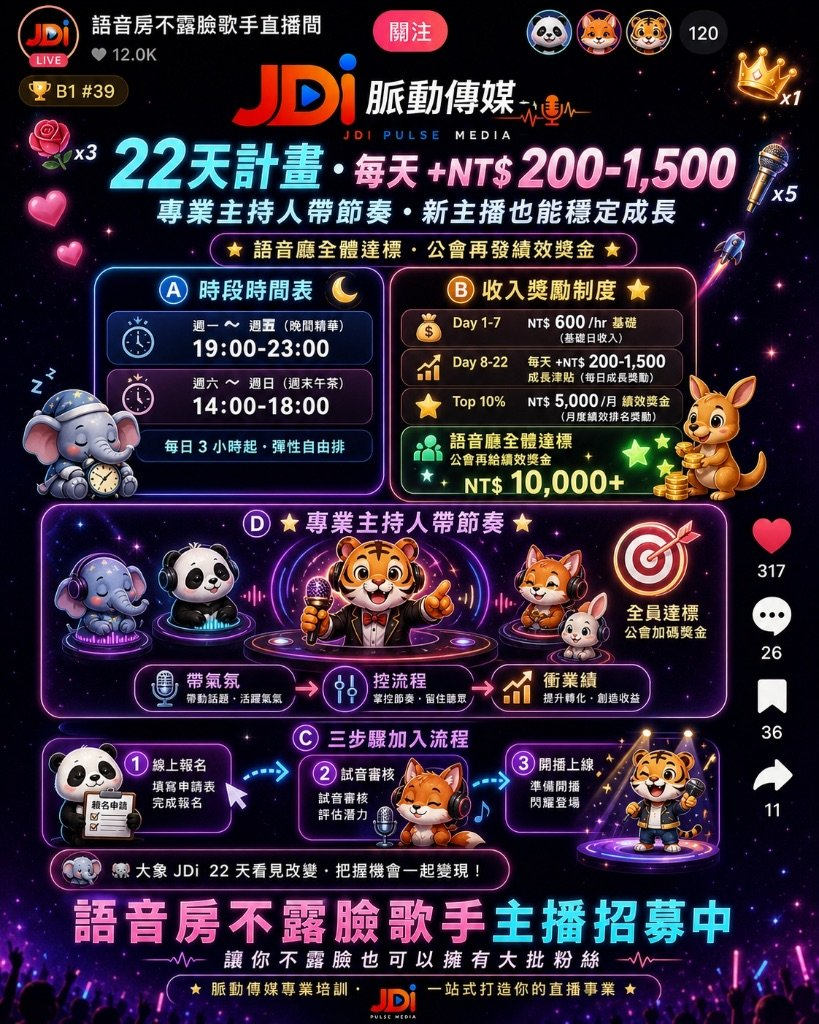
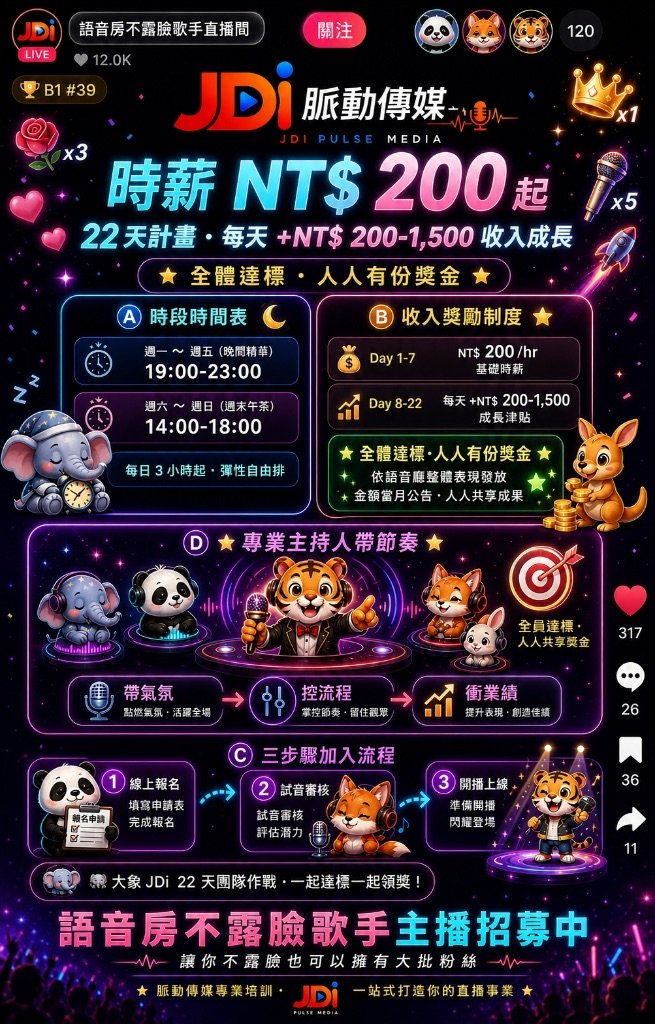
fix(live-center): 語音主播招募文重新定調收入結構（禮物抽成主軸 + 3 層審核制加碼）
依運營團隊確認的正確定義修正：
- 主要收入實際來自「粉絲禮物抽成」（原文誤寫成公會保底時薪）
- NT$ 200/hr 為公會審核制保底獎金，非固定工資
- 每天 +NT$ 200~1,500 成長津貼同為審核制
- 個人 Top 10% 績效已刪除，改為「全員達標人人共享」團隊機制
- 全員達標獎金金額依整廳表現浮動，當月公告（非固定 10,000+）

修改內容：
- 替換 hero 圖為新版海報（時薪 NT$ 200 起 · 22 天團隊作戰）
- 標題改為「22 天團隊作戰，一起達標一起領獎」
- 副標新增禮物抽成主軸說明
- 一句話總結完整重寫
- H2「收入結構」改為「主軸是禮物抽成，公會三層加碼獎金補強」
- 4 張收入卡改為：主要收入=禮物抽成 / Day 1-7 保底 NT$ 200/hr / Day 8-22 成長 / 全員達標=共享獎金
- 新增「審核制是什麼意思」callout 說明機制
- 3 情境試算表重新計算（原本 Top 10% 5萬+ 因基礎時薪錯誤而失真）：
  - 保守 NT$ 7,200（僅公會加碼）
  - 穩定 NT$ 16,200
  - 積極 NT$ 26,700
  - 加註「不含禮物抽成，實際總收入 = 抽成 + 加碼 + 共享」
- 修正 FAQ Q2（22 天沒到不會扣禮物抽成）+ Q3（全員達標金額浮動）
- 修正硬體段落「Top 10% 主播回本」→「粉絲抽成穩定回本」
- 主軸 CTA 標語改「22 天團隊作戰，一起達標一起領獎」
- 更新 og:title / og:description / meta description / JSON-LD headline
- 更新 policy hub 新文標題 + 主 hub Featured 卡標題與 excerpt
- Cache-bust：v=20260901m → 20260901n（26 個 HTML 檔）

驗證：桌機 + 手機 390px 雙視角全部通過，4 張收入卡均勻 358px，內容全部對齊。

diff --git a/live-center/article/voice-only-streamer-recruitment/index.html b/live-center/article/voice-only-streamer-recruitment/index.html
@@ -3,14 +3,14 @@
 <head>
 <meta charset="UTF-8" />
 <meta name="viewport" content="width=device-width, initial-scale=1.0" />
-<title>不露臉語音主播培訓計畫招募中｜22 天 3 小時彈性上線 · JDI 脈動傳媒</title>
-<meta name="description" content="JDI 脈動傳媒推出 22 天不露臉語音主播培訓計畫 —— 每天 3 小時彈性上線，Day 1-7 保底 NT$ 600/hr，Day 8-22 成長津貼每天 +200-1500，Top 10% 加碼 5000 元，全員達標再發 10000+ 績效獎金。專業主持人陪跑，新人也能穩定成長。" />
+<title>不露臉語音主播培訓計畫招募中｜22 天團隊作戰 · JDI 脈動傳媒</title>
+<meta name="description" content="JDI 脈動傳媒推出 22 天不露臉語音主播培訓計畫 —— 主要收入來自粉絲禮物抽成，公會提供三層審核制加碼：時薪 NT$ 200/hr 保底、每天 +200~1500 成長津貼、全員達標人人共享獎金。專業主持人陪跑，新人也能穩定成長。" />
 <meta name="robots" content="index, follow" />
 <meta name="theme-color" content="#E8392A" />
 <link rel="canonical" href="https://jdi-pulse.com/live-center/article/voice-only-streamer-recruitment/" />
 <meta property="og:type" content="article" />
-<meta property="og:title" content="不露臉語音主播培訓計畫招募中｜22 天 3 小時彈性上線" />
-<meta property="og:description" content="每天 +NT$ 200-1500 成長津貼，Top 10% 加碼 5000 元，全員達標再發 10000+。專業主持人陪跑，新手無痛開播。" />
+<meta property="og:title" content="不露臉語音主播培訓計畫招募中｜22 天團隊作戰" />
+<meta property="og:description" content="粉絲禮物抽成為主 + 公會三層審核制加碼：NT$ 200/hr 保底時薪、每天 +200~1500 成長津貼、全員達標人人共享。專業主持人陪跑，新手無痛開播。" />
 <meta property="og:url" content="https://jdi-pulse.com/live-center/article/voice-only-streamer-recruitment/" />
 <meta property="og:image" content="https://jdi-pulse.com/assets/live-center/voice-recruit-hero.jpg" />
 <meta property="article:published_time" content="2026-09-05" />
@@ -20,7 +20,7 @@
 <link rel="preconnect" href="https://fonts.googleapis.com" />
 <link rel="preconnect" href="https://fonts.gstatic.com" crossorigin />
 <link href="https://fonts.googleapis.com/css2?family=Noto+Sans+TC:wght@400;500;600;700;800;900&display=swap" rel="stylesheet" />
-<link rel="stylesheet" href="/css/style.css?v=20260901m" />
+<link rel="stylesheet" href="/css/style.css?v=20260901n" />
 <link rel="stylesheet" href="/css/live-center.css?v=20260902a" />
 <style>
   body { font-family: 'Noto Sans TC', -apple-system, sans-serif; margin: 0; }
@@ -60,7 +60,7 @@
 {
   "@context": "https://schema.org",
   "@type": "Article",
-  "headline": "不露臉語音主播培訓計畫招募中｜22 天 3 小時彈性上線",
+  "headline": "不露臉語音主播培訓計畫招募中｜22 天團隊作戰",
   "datePublished": "2026-09-05",
   "dateModified": "2026-09-05",
   "publisher": {
@@ -152,18 +152,18 @@
         <span class="lc-tag lc-tag--policy">📢 活動政策</span>
         <span class="lc-article-date">2026-09-05</span>
       </div>
-      <h1 class="lc-article-title">不露臉語音主播培訓計畫招募中｜22 天 3 小時彈性上線，每天 +NT$ 200–1,500</h1>
-      <p class="lc-article-subtitle">聲音經濟全面崛起。你不必成為百萬網紅，也不需要承擔面對鏡頭的容貌焦慮 —— JDI 脈動傳媒推出 <strong>22 天不露臉語音主播培訓計畫</strong>，專業主持人帶節奏、公會運營全程陪跑，新人也能穩定成長。</p>
+      <h1 class="lc-article-title">不露臉語音主播培訓計畫招募中｜22 天團隊作戰，一起達標一起領獎</h1>
+      <p class="lc-article-subtitle">聲音經濟全面崛起。你不必成為百萬網紅，也不需要承擔面對鏡頭的容貌焦慮 —— JDI 脈動傳媒推出 <strong>22 天不露臉語音主播培訓計畫</strong>，主要收入來自粉絲禮物抽成，公會另外提供<strong>三層審核制加碼獎金</strong>（時薪保底、成長津貼、全員達標共享），專業主持人帶節奏、運營全程陪跑，新人也能穩定成長。</p>
       <a href="/assets/live-center/voice-recruit-hero.jpg" class="vr-hero-poster" target="_blank" rel="noopener">
         <img src="/assets/live-center/voice-recruit-hero.jpg" alt="JDI 脈動傳媒不露臉語音主播 22 天培訓計畫招募主視覺" loading="eager" width="819" height="1024" />
       </a>
-      <span class="lc-article-cover-caption">22 天計畫 · 每天 +NT$ 200–1,500 · 語音房不露臉主播招募中</span>
+      <span class="lc-article-cover-caption">時薪 NT$ 200 起（審核制）· 22 天團隊作戰 · 一起達標一起領獎</span>
     </header>
 
     <div class="lc-article-body">
       <div class="vr-highlight">
         <h3>🎯 一句話總結</h3>
-        <p style="margin:0;">每個月 22 天、每天 3 小時精華時段、Day 1–7 基礎 NT$ 600/hr、Day 8–22 成長津貼每天 +NT$ 200–1,500、Top 10% 加碼 NT$ 5,000/月、全員達標公會再發 NT$ 10,000+。<strong>用聲音為自己創造第二收入。</strong></p>
+        <p style="margin:0;">主要收入來自<strong>粉絲禮物抽成</strong>（業界最優分潤，詳情面談）；此外公會提供<strong>三層審核制加碼獎金</strong> —— Day 1–7 保底時薪 <strong>NT$ 200/hr</strong>、Day 8–22 成長津貼每天 <strong>+NT$ 200~1,500</strong>、全員達標<strong>依整廳表現發放共享獎金</strong>。用聲音為自己創造穩定收入。</p>
       </div>
 
       <h2>為什麼 2026 年是「聲音經濟」的關鍵年？</h2>
@@ -192,70 +192,78 @@
       </div>
       <span class="lc-article-cover-caption">你不需要露臉，也能擁有大批粉絲 —— 只要聲音對、企劃對、平台對</span>
 
-      <h2>收入結構｜四層加碼機制</h2>
+      <h2>收入結構｜主軸是「禮物抽成」，公會三層加碼獎金補強</h2>
 
-      <p>與傳統直播平台的「純抽成」模式不同，本計畫採用<strong>四層加碼機制</strong>，讓穩定出勤的主播能領到穩定收入，讓表現優秀的主播能領到超額回報：</p>
+      <p>先講最重要的觀念 —— <strong>你的主要收入來自粉絲禮物抽成</strong>，這跟一般直播主一樣。粉絲透過應援棒、泰迪熊、火箭、流星雨等虛擬禮物支持你，這些會依業界最優分潤比例（詳情面談）成為你的實質收入。</p>
+
+      <p>在這個主軸之上，JDI 脈動傳媒額外提供<strong>三層審核制加碼獎金</strong>，讓認真出勤的主播即使新手期粉絲少，也不會空手：</p>
 
       <div class="vr-income-grid">
         <div class="vr-income-card">
-          <div class="vr-income-label">🛡 Day 1–7 基礎</div>
-          <div class="vr-income-value">NT$ 600/hr</div>
-          <div class="vr-income-note">基礎日收入（穩定保底）</div>
+          <div class="vr-income-label">💝 主要收入</div>
+          <div class="vr-income-value">禮物抽成</div>
+          <div class="vr-income-note">業界最優分潤（面談詳談）</div>
+        </div>
+        <div class="vr-income-card">
+          <div class="vr-income-label">🛡 Day 1–7 保底</div>
+          <div class="vr-income-value">NT$ 200/hr</div>
+          <div class="vr-income-note">審核制保底時薪</div>
         </div>
         <div class="vr-income-card">
           <div class="vr-income-label">📈 Day 8–22 成長</div>
-          <div class="vr-income-value">+ NT$ 200–1,500</div>
-          <div class="vr-income-note">每日成長津貼（依表現）</div>
-        </div>
-        <div class="vr-income-card">
-          <div class="vr-income-label">⭐ Top 10% 績效</div>
-          <div class="vr-income-value">NT$ 5,000/月</div>
-          <div class="vr-income-note">月度績效排名獎勵</div>
+          <div class="vr-income-value">+ NT$ 200~1,500</div>
+          <div class="vr-income-note">每日成長津貼（審核制）</div>
         </div>
         <div class="vr-income-card">
           <div class="vr-income-label">🎁 全員達標</div>
-          <div class="vr-income-value">NT$ 10,000+</div>
-          <div class="vr-income-note">語音廳全體達標公會加碼</div>
+          <div class="vr-income-value">共享獎金</div>
+          <div class="vr-income-note">依整廳表現 · 當月公告</div>
         </div>
       </div>
 
-      <h3>💡 新手實際收入試算（保守版）</h3>
+      <div class="lc-callout">
+        <strong>🔍 「審核制」是什麼意思？</strong>公會加碼獎金不是「出勤打卡就領」，而是需要達成基本的<strong>出勤時數、直播互動品質、遵守公會規範</strong>等條件，由運營團隊定期審核後發放。這個機制保護的是<strong>認真經營的主播</strong>—— 不會有掛麥、應付了事的人稀釋整廳的獎金池。
+      </div>
+
+      <h3>💡 三層公會加碼獎金試算（不含禮物抽成）</h3>
+
+      <p>以下試算<strong>只計算公會加碼獎金</strong>，不含粉絲禮物抽成 —— 抽成收入依你的粉絲經營成效浮動，可能從幾千元到數十萬元不等。這張表想讓你看清楚：<strong>就算粉絲還沒累積，公會加碼機制也讓你有基本的努力回報</strong>。</p>
 
       <div class="vr-table-wrap">
         <table>
           <thead>
             <tr style="background: rgba(37,244,238,0.15);">
-              <th style="padding: 12px; text-align: left; border-bottom: 2px solid var(--lc-policy); color: var(--lc-policy); font-weight: 700;">情境</th>
-              <th style="padding: 12px; text-align: right; border-bottom: 2px solid var(--lc-policy); color: var(--lc-policy); font-weight: 700;">基礎（7 天）</th>
-              <th style="padding: 12px; text-align: right; border-bottom: 2px solid var(--lc-policy); color: var(--lc-policy); font-weight: 700;">成長（15 天）</th>
-              <th style="padding: 12px; text-align: right; border-bottom: 2px solid var(--lc-policy); color: var(--lc-policy); font-weight: 700;">月收合計</th>
+              <th style="padding: 12px; text-align: left; border-bottom: 2px solid var(--lc-policy); color: var(--lc-policy); font-weight: 700;">情境（審核通過）</th>
+              <th style="padding: 12px; text-align: right; border-bottom: 2px solid var(--lc-policy); color: var(--lc-policy); font-weight: 700;">Day 1–7 保底</th>
+              <th style="padding: 12px; text-align: right; border-bottom: 2px solid var(--lc-policy); color: var(--lc-policy); font-weight: 700;">Day 8–22 成長</th>
+              <th style="padding: 12px; text-align: right; border-bottom: 2px solid var(--lc-policy); color: var(--lc-policy); font-weight: 700;">加碼小計</th>
             </tr>
           </thead>
           <tbody>
             <tr>
-              <td style="padding: 12px; border-bottom: 1px solid rgba(255,255,255,0.08);"><strong>保守估算</strong><br><span style="opacity:.7; font-size:13px;">3 hr/天 × 成長 +200/天</span></td>
-              <td style="padding: 12px; text-align: right; border-bottom: 1px solid rgba(255,255,255,0.08);">NT$ 12,600</td>
-              <td style="padding: 12px; text-align: right; border-bottom: 1px solid rgba(255,255,255,0.08);">NT$ 3,000</td>
-              <td style="padding: 12px; text-align: right; border-bottom: 1px solid rgba(255,255,255,0.08); color: var(--lc-policy); font-weight: 700;">NT$ 15,600</td>
+              <td style="padding: 12px; border-bottom: 1px solid rgba(255,255,255,0.08);"><strong>保守情境</strong><br><span style="opacity:.7; font-size:13px;">3 hr/天 × 成長 +200/天</span></td>
+              <td style="padding: 12px; text-align: right; border-bottom: 1px solid rgba(255,255,255,0.08);">NT$ 4,200<br><span style="opacity:.6; font-size:12px;">(200×3×7)</span></td>
+              <td style="padding: 12px; text-align: right; border-bottom: 1px solid rgba(255,255,255,0.08);">NT$ 3,000<br><span style="opacity:.6; font-size:12px;">(200×15)</span></td>
+              <td style="padding: 12px; text-align: right; border-bottom: 1px solid rgba(255,255,255,0.08); color: var(--lc-policy); font-weight: 700;">NT$ 7,200</td>
             </tr>
             <tr>
               <td style="padding: 12px; border-bottom: 1px solid rgba(255,255,255,0.08);"><strong>穩定表現</strong><br><span style="opacity:.7; font-size:13px;">3 hr/天 × 成長 +800/天</span></td>
-              <td style="padding: 12px; text-align: right; border-bottom: 1px solid rgba(255,255,255,0.08);">NT$ 12,600</td>
-              <td style="padding: 12px; text-align: right; border-bottom: 1px solid rgba(255,255,255,0.08);">NT$ 12,000</td>
-              <td style="padding: 12px; text-align: right; border-bottom: 1px solid rgba(255,255,255,0.08); color: var(--lc-policy); font-weight: 700;">NT$ 24,600</td>
+              <td style="padding: 12px; text-align: right; border-bottom: 1px solid rgba(255,255,255,0.08);">NT$ 4,200</td>
+              <td style="padding: 12px; text-align: right; border-bottom: 1px solid rgba(255,255,255,0.08);">NT$ 12,000<br><span style="opacity:.6; font-size:12px;">(800×15)</span></td>
+              <td style="padding: 12px; text-align: right; border-bottom: 1px solid rgba(255,255,255,0.08); color: var(--lc-policy); font-weight: 700;">NT$ 16,200</td>
             </tr>
             <tr>
-              <td style="padding: 12px;"><strong>Top 10% 主播</strong><br><span style="opacity:.7; font-size:13px;">3 hr/天 × 成長 +1500/天 + 績效 5,000 + 加碼 10,000</span></td>
-              <td style="padding: 12px; text-align: right;">NT$ 12,600</td>
-              <td style="padding: 12px; text-align: right;">NT$ 22,500</td>
-              <td style="padding: 12px; text-align: right; color: var(--lc-policy); font-weight: 700;">NT$ 50,100+</td>
+              <td style="padding: 12px;"><strong>積極衝刺</strong><br><span style="opacity:.7; font-size:13px;">3 hr/天 × 成長 +1,500/天</span></td>
+              <td style="padding: 12px; text-align: right;">NT$ 4,200</td>
+              <td style="padding: 12px; text-align: right;">NT$ 22,500<br><span style="opacity:.6; font-size:12px;">(1500×15)</span></td>
+              <td style="padding: 12px; text-align: right; color: var(--lc-policy); font-weight: 700;">NT$ 26,700</td>
             </tr>
           </tbody>
         </table>
       </div>
 
       <div class="lc-callout">
-        <strong>📊 試算說明：</strong>以上為公會運營團隊依過往新人數據整理的參考區間，不代表個人保證收入。實際收入依<strong>出勤穩定度、聲音表現、粉絲互動、指定禮物累積</strong>等多重因素決定 —— 我們的角色是<strong>提高你落在中高區間的機率</strong>。
+        <strong>📊 試算說明：</strong>以上<strong>僅為公會加碼獎金的參考區間</strong>，且皆需通過運營審核，不代表個人保證收入。<strong>你的實際總月收 = 粉絲禮物抽成（主要）＋ 公會加碼獎金（審核通過）＋ 全員達標共享獎金（依整廳表現）</strong>。禮物抽成部分依你的粉絲經營成效浮動，從幾千到數十萬元皆有可能 —— 我們的角色是<strong>用系統性培訓 + 專業主持人 + 房型企劃</strong>，讓你的粉絲累積速度比單打獨鬥快 3–5 倍。
       </div>
 
       <h2>時段安排｜每月 22 天、每天 3 小時精華時段</h2>
@@ -281,7 +289,7 @@
       </ol>
 
       <div class="lc-callout">
-        <strong>🎁 全員達標，公會加碼：</strong>語音廳全體達標時，公會會額外發放績效獎金 NT$ 10,000+ —— 這是「同房夥伴一起變好」的雙贏機制，不是零和競爭。
+        <strong>🎁 全員達標，人人有份獎金：</strong>語音廳整體達標時，公會會額外發放<strong>共享獎金池</strong>，依整廳表現決定金額，當月公告、人人共享成果 —— 這是「同房夥伴一起變好」的雙贏機制，不是零和競爭，也是我們刪除「個人 Top 10%」績效的原因：我們要打的是<strong>團隊作戰，不是內部競賽</strong>。
       </div>
 
       <h2>3 步驟加入流程</h2>
@@ -321,7 +329,7 @@
         <li><strong>監聽耳機：</strong>入門款約 NT$ 800–1,800，避免直播時聽不清自己聲音</li>
       </ul>
 
-      <p>整套下來約 <strong>NT$ 5,000–10,000 就能起步</strong>，Top 10% 主播第一個月就能回本。若無相關經驗，<strong>公會運營團隊可提供設備挑選建議</strong>，避免踩雷買到不合適的品牌。</p>
+      <p>整套下來約 <strong>NT$ 5,000–10,000 就能起步</strong>，若你的粉絲禮物抽成穩定，第 1–2 個月就能回本。若無相關經驗，<strong>公會運營團隊可提供設備挑選建議</strong>，避免踩雷買到不合適的品牌。</p>
 
       <h2>5 題新人最常問的問題</h2>
 
@@ -329,10 +337,10 @@
       <p>可以。我們每個月都會收到大量新人報名，其中<strong>約 60% 是完全零經驗</strong>。試音時我們看的不是「你現在多好」，而是「你的聲音是否具備某個獨特記憶點」—— 有些人是溫柔療癒系、有些人是活潑逗趣型、有些人是知性穩重派，每種特質都能找到對應的粉絲群。</p>
 
       <h3>Q2：22 天沒到會不會被扣錢？</h3>
-      <p>不會被「扣錢」，但會影響你的收入結構。Day 1–7 的基礎 NT$ 600/hr 是按實際上麥時數計算，Day 8–22 的成長津貼則需要滿足<strong>當月累積出勤天數</strong>才能領取。所以我們建議至少要達 22 天門檻，讓完整的四層加碼機制生效。</p>
+      <p>不會被「扣錢」，但會影響你能領到的公會加碼獎金。Day 1–7 的保底時薪 NT$ 200/hr 是按實際上麥時數並經運營審核後發放，Day 8–22 的成長津貼則需要滿足<strong>當月累積出勤天數與品質標準</strong>才能通過審核。所以我們建議至少要達 22 天門檻，讓完整的三層加碼機制生效。<strong>粉絲禮物抽成本身不受出勤天數扣減</strong>—— 你有播、有收到禮物就有分潤。</p>
 
-      <h3>Q3：全員達標的 NT$ 10,000+ 是每人都能領嗎？</h3>
-      <p>是的，這是「<strong>同房共享獎金</strong>」機制 —— 當整個語音廳全體達標（所有排麥主播都完成月度目標）時，公會會額外撥發獎金池，<strong>由該廳所有主播平分或依貢獻度分配</strong>。這也是為什麼我們強調「夥伴一起變好」，因為你的努力會直接影響同房夥伴的收入。</p>
+      <h3>Q3：全員達標獎金金額多少？每人領多少？</h3>
+      <p>金額每月<strong>依整廳表現浮動</strong>，會由公會運營於當月結算後公告。分配原則是「<strong>人人有份共享成果</strong>」—— 只要當月語音廳整體達到目標，該廳所有通過審核的主播都能領到一份。這也是為什麼我們強調「夥伴一起變好」，因為<strong>你的努力會直接影響同房夥伴的收入</strong>，反之亦然。這個機制的目的是讓廳內大家<strong>互相帶動而非內部競爭</strong>。</p>
 
       <h3>Q4：不露臉真的能吸粉嗎？會不會很難經營？</h3>
       <p>會，但比你想像的容易。TikTok、抖音、Podcast 過去 3 年最大的趨勢就是「聲音經濟」—— 因為觀眾對「陪伴感」的需求遠大於「觀賞感」。當你有專業主持人配合、有 IP 化的房型設計、有公會流量導入，經營難度會下降到你能專注在「怎麼把每一場說得更好」這件事上。</p>
@@ -350,8 +358,8 @@
     </div>
 
     <div class="lc-article-cta">
-      <h3 class="lc-article-cta-title">立即報名 · 22 天用聲音改變生活</h3>
-      <p class="lc-article-cta-desc">私訊我們 / 填寫報名表單，了解詳細分潤機制與面談資訊 —— 大象 JDI 22 天看見改變，把握機會一起變現！</p>
+      <h3 class="lc-article-cta-title">立即報名 · 22 天團隊作戰，一起達標一起領獎</h3>
+      <p class="lc-article-cta-desc">私訊我們 / 填寫報名表單，了解詳細禮物抽成分潤比例、審核制加碼細則與面談資訊 —— 大象 JDi 22 天團隊作戰，一起達標一起領獎！</p>
       <div class="lc-article-cta-buttons">
         <a href="https://line.me/R/ti/p/@354ykfbp" target="_blank" rel="noopener" class="lc-btn lc-btn-primary">💬 LINE 諮詢報名 →</a>
         <a href="/streamer-test/" class="lc-btn lc-btn-secondary">🎤 先做主播測驗</a>

diff --git a/live-center/index.html b/live-center/index.html
@@ -45,7 +45,7 @@
 <link rel="preconnect" href="https://fonts.googleapis.com" />
 <link rel="preconnect" href="https://fonts.gstatic.com" crossorigin />
 <link href="https://fonts.googleapis.com/css2?family=Noto+Sans+TC:wght@400;500;600;700;800;900&display=swap" rel="stylesheet" />
-<link rel="stylesheet" href="/css/style.css?v=20260901m" />
+<link rel="stylesheet" href="/css/style.css?v=20260901n" />
 <link rel="stylesheet" href="/css/live-center.css?v=20260902a" />
 <style>
   body { font-family: 'Noto Sans TC', -apple-system, BlinkMacSystemFont, sans-serif; margin: 0; }
@@ -159,8 +159,8 @@
           </div>
           <div class="lc-featured-body">
             <span class="lc-tag lc-tag--policy">📢 活動政策</span>
-            <h3 class="lc-featured-title">不露臉語音主播培訓計畫招募中｜22 天彈性上線</h3>
-            <p class="lc-featured-excerpt">每天 3 小時精華時段，Day 1-7 保底 NT$ 600/hr，Day 8-22 成長津貼每天 +200-1500，Top 10% 加碼 5000/月，全員達標公會再發 10000+。</p>
+            <h3 class="lc-featured-title">不露臉語音主播培訓計畫招募中｜22 天團隊作戰</h3>
+            <p class="lc-featured-excerpt">主要收入來自粉絲禮物抽成（業界最優分潤）；公會加碼三層審核制獎金：時薪 NT$ 200/hr 保底、每天 +200~1500 成長津貼、全員達標人人共享獎金。</p>
             <div class="lc-featured-meta">
               <span>2026-09-05</span>
             </div>
@@ -246,7 +246,7 @@
             <img src="/assets/live-center/voice-recruit-hero.jpg" alt="不露臉語音主播 22 天培訓計畫招募主視覺" loading="lazy" width="819" height="1024" />
           </div>
           <div class="lc-list-body">
-            <h3 class="lc-list-title">不露臉語音主播培訓計畫招募中｜22 天 3 小時彈性上線，每天 +NT$ 200–1,500</h3>
+            <h3 class="lc-list-title">不露臉語音主播培訓計畫招募中｜22 天團隊作戰，一起達標一起領獎</h3>
             <div class="lc-list-meta">
               <span class="lc-tag lc-tag--policy">📢 活動政策</span>
               <span>2026-09-05</span>
@@ -274,7 +274,7 @@
             <img src="/assets/live-center/mentor-program-hero.jpg" alt="師徒計畫招募海報｜本屆公會大使多多綠、芮娜、米姥思" loading="lazy" width="1024" height="576" />
           </div>
           <div class="lc-list-body">
-            <h3 class="lc-list-title">師徒計畫招募中｜學姐親帶你走向直播巔峰</h3>
+            <h3 class="lc-list-title">師徒計畫�  <h3 class="lc-list-title">師徒計畫招募中｜學姐親帶你走向直播巔峰</h3>
             <div class="lc-list-meta">
               <span class="lc-tag lc-tag--policy">📢 活動政策</span>
               <span>2026-09-02</span>

diff --git a/streamers/all/index.html b/streamers/all/index.html
@@ -19,7 +19,7 @@
   <meta property="og:title" content="全部主播 · 旗下 300+ 位主播｜JDI 脈動傳媒" />
   <meta property="og:description" content="JDI 脈動傳媒旗下 300+ 位 TikTokLive 優質主播完整陣容。脈動之星精選推薦、支援名稱／帳號快速搜尋。" />
   <meta property="og:url" content="https://jdi-pulse.com/streamers/all/" />
-  <meta property="og:image" content="https://jdi-pulse.com/assets/og_home.png?v=20260901m" />
+  <meta property="og:image" content="https://jdi-pulse.com/assets/og_home.png?v=20260901n" />
   <meta property="og:locale" content="zh_TW" />
 
   <!-- ========== TWITTER / X CARD ========== -->
@@ -67,8 +67,8 @@
   <link rel="preload" as="image" href="/assets/ad_01_recruit.png" fetchpriority="high" />
 
   <!-- ========== STYLES ========== -->
-  <link rel="stylesheet" href="/css/style.css?v=20260901m" />
-  <link rel="stylesheet" href="/css/site-chrome.css?v=20260901m" />
+  <link rel="stylesheet" href="/css/style.css?v=20260901n" />
+  <link rel="stylesheet" href="/css/site-chrome.css?v=20260901n" />
 
   <style>
     /* 全部主播頁專用微調 */
@@ -448,7 +448,7 @@
   </div>
 </footer>
 
-<script src="/js/main.js?v=20260901m"></script>
+<script src="/js/main.js?v=20260901n"></script>
 <script>
   // 顯示總數
   document.addEventListener('DOMContentLoaded', function() {

diff --git a/live-center/policy/index.html b/live-center/policy/index.html
@@ -18,7 +18,7 @@
 <link rel="preconnect" href="https://fonts.googleapis.com" />
 <link rel="preconnect" href="https://fonts.gstatic.com" crossorigin />
 <link href="https://fonts.googleapis.com/css2?family=Noto+Sans+TC:wght@400;500;600;700;800;900&display=swap" rel="stylesheet" />
-<link rel="stylesheet" href="/css/style.css?v=20260901m" />
+<link rel="stylesheet" href="/css/style.css?v=20260901n" />
 <link rel="stylesheet" href="/css/live-center.css?v=20260902a" />
 <style>body { font-family: 'Noto Sans TC', -apple-system, sans-serif; margin: 0; }</style>
   <link rel="stylesheet" href="/css/site-chrome.css?v=20260831a" />
@@ -116,7 +116,7 @@
           <img src="/assets/live-center/voice-recruit-hero.jpg" alt="不露臉語音主播 22 天培訓計畫招募主視覺" loading="lazy" width="819" height="1024" />
         </div>
         <div class="lc-list-body">
-          <h3 class="lc-list-title">不露臉語音主播培訓計畫招募中｜22 天 3 小時彈性上線，每天 +NT$ 200–1,500</h3>
+          <h3 class="lc-list-title">不露臉語音主播培訓計畫招募中｜22 天團隊作戰，一起達標一起領獎</h3>
           <div class="lc-list-meta">
             <span class="lc-tag lc-tag--policy">📢 活動政策</span>
             <span>2026-09-05</span>

diff --git a/index.html b/index.html
@@ -257,7 +257,7 @@
   <link rel="preconnect" href="https://fonts.googleapis.com" />
   <link rel="preconnect" href="https://fonts.gstatic.com" crossorigin />
   <link href="https://fonts.googleapis.com/css2?family=Noto+Sans+TC:wght@300;400;500;700;900&family=Inter:wght@300;400;500;600;700;800;900&display=swap" rel="stylesheet" />
-  <link rel="stylesheet" href="css/style.css?v=20260901m" />
+  <link rel="stylesheet" href="css/style.css?v=20260901n" />
   <link rel="stylesheet" href="css/streamer-test.css?v=20260820a" />
   <link rel="stylesheet" href="/css/site-chrome.css?v=20260831a" />
 </head>
@@ -1238,6 +1238,6 @@
     })();
   </script>
 
-  <script src="js/main.js?v=20260901m"></script>
+  <script src="js/main.js?v=20260901n"></script>
 </body>
 </html>

diff --git a/live-center/creator/index.html b/live-center/creator/index.html
@@ -18,7 +18,7 @@
 <link rel="preconnect" href="https://fonts.googleapis.com" />
 <link rel="preconnect" href="https://fonts.gstatic.com" crossorigin />
 <link href="https://fonts.googleapis.com/css2?family=Noto+Sans+TC:wght@400;500;600;700;800;900&display=swap" rel="stylesheet" />
-<link rel="stylesheet" href="/css/style.css?v=20260901m" />
+<link rel="stylesheet" href="/css/style.css?v=20260901n" />
 <link rel="stylesheet" href="/css/live-center.css?v=20260902a" />
 <style>body { font-family: 'Noto Sans TC', -apple-system, sans-serif; margin: 0; }</style>
   <link rel="stylesheet" href="/css/site-chrome.css?v=20260831a" />

diff --git a/live-center/glory/index.html b/live-center/glory/index.html
@@ -18,7 +18,7 @@
 <link rel="preconnect" href="https://fonts.googleapis.com" />
 <link rel="preconnect" href="https://fonts.gstatic.com" crossorigin />
 <link href="https://fonts.googleapis.com/css2?family=Noto+Sans+TC:wght@400;500;600;700;800;900&display=swap" rel="stylesheet" />
-<link rel="stylesheet" href="/css/style.css?v=20260901m" />
+<link rel="stylesheet" href="/css/style.css?v=20260901n" />
 <link rel="stylesheet" href="/css/live-center.css?v=20260902a" />
 <style>body { font-family: 'Noto Sans TC', -apple-system, sans-serif; margin: 0; }</style>
   <link rel="stylesheet" href="/css/site-chrome.css?v=20260831a" />

diff --git a/live-center/revenue/index.html b/live-center/revenue/index.html
@@ -18,7 +18,7 @@
 <link rel="preconnect" href="https://fonts.googleapis.com" />
 <link rel="preconnect" href="https://fonts.gstatic.com" crossorigin />
 <link href="https://fonts.googleapis.com/css2?family=Noto+Sans+TC:wght@400;500;600;700;800;900&display=swap" rel="stylesheet" />
-<link rel="stylesheet" href="/css/style.css?v=20260901m" />
+<link rel="stylesheet" href="/css/style.css?v=20260901n" />
 <link rel="stylesheet" href="/css/live-center.css?v=20260902a" />
 <style>body { font-family: 'Noto Sans TC', -apple-system, sans-serif; margin: 0; }</style>
   <link rel="stylesheet" href="/css/site-chrome.css?v=20260831a" />

diff --git a/live-center/tutorial/index.html b/live-center/tutorial/index.html
@@ -18,7 +18,7 @@
 <link rel="preconnect" href="https://fonts.googleapis.com" />
 <link rel="preconnect" href="https://fonts.gstatic.com" crossorigin />
 <link href="https://fonts.googleapis.com/css2?family=Noto+Sans+TC:wght@400;500;600;700;800;900&display=swap" rel="stylesheet" />
-<link rel="stylesheet" href="/css/style.css?v=20260901m" />
+<link rel="stylesheet" href="/css/style.css?v=20260901n" />
 <link rel="stylesheet" href="/css/live-center.css?v=20260902a" />
 <style>body { font-family: 'Noto Sans TC', -apple-system, sans-serif; margin: 0; }</style>
   <link rel="stylesheet" href="/css/site-chrome.css?v=20260831a" />

diff --git a/live-center/article/2026-q2-tiktok-live-payout-update/index.html b/live-center/article/2026-q2-tiktok-live-payout-update/index.html
@@ -20,7 +20,7 @@
 <link rel="preconnect" href="https://fonts.googleapis.com" />
 <link rel="preconnect" href="https://fonts.gstatic.com" crossorigin />
 <link href="https://fonts.googleapis.com/css2?family=Noto+Sans+TC:wght@400;500;600;700;800;900&display=swap" rel="stylesheet" />
-<link rel="stylesheet" href="/css/style.css?v=20260901m" />
+<link rel="stylesheet" href="/css/style.css?v=20260901n" />
 <link rel="stylesheet" href="/css/live-center.css?v=20260902a" />
 <style>body { font-family: 'Noto Sans TC', -apple-system, sans-serif; margin: 0; }</style>
 

diff --git a/live-center/article/3000-budget-live-streaming-setup/index.html b/live-center/article/3000-budget-live-streaming-setup/index.html
@@ -20,7 +20,7 @@
 <link rel="preconnect" href="https://fonts.googleapis.com" />
 <link rel="preconnect" href="https://fonts.gstatic.com" crossorigin />
 <link href="https://fonts.googleapis.com/css2?family=Noto+Sans+TC:wght@400;500;600;700;800;900&display=swap" rel="stylesheet" />
-<link rel="stylesheet" href="/css/style.css?v=20260901m" />
+<link rel="stylesheet" href="/css/style.css?v=20260901n" />
 <link rel="stylesheet" href="/css/live-center.css?v=20260902a" />
 <style>body { font-family: 'Noto Sans TC', -apple-system, sans-serif; margin: 0; }</style>
 

diff --git a/live-center/article/august-2026-allstar-top3/index.html b/live-center/article/august-2026-allstar-top3/index.html
@@ -20,7 +20,7 @@
 <link rel="preconnect" href="https://fonts.googleapis.com" />
 <link rel="preconnect" href="https://fonts.gstatic.com" crossorigin />
 <link href="https://fonts.googleapis.com/css2?family=Noto+Sans+TC:wght@400;500;600;700;800;900&display=swap" rel="stylesheet" />
-<link rel="stylesheet" href="/css/style.css?v=20260901m" />
+<link rel="stylesheet" href="/css/style.css?v=20260901n" />
 <link rel="stylesheet" href="/css/live-center.css?v=20260902a" />
 <style>body { font-family: 'Noto Sans TC', -apple-system, sans-serif; margin: 0; }</style>
 
